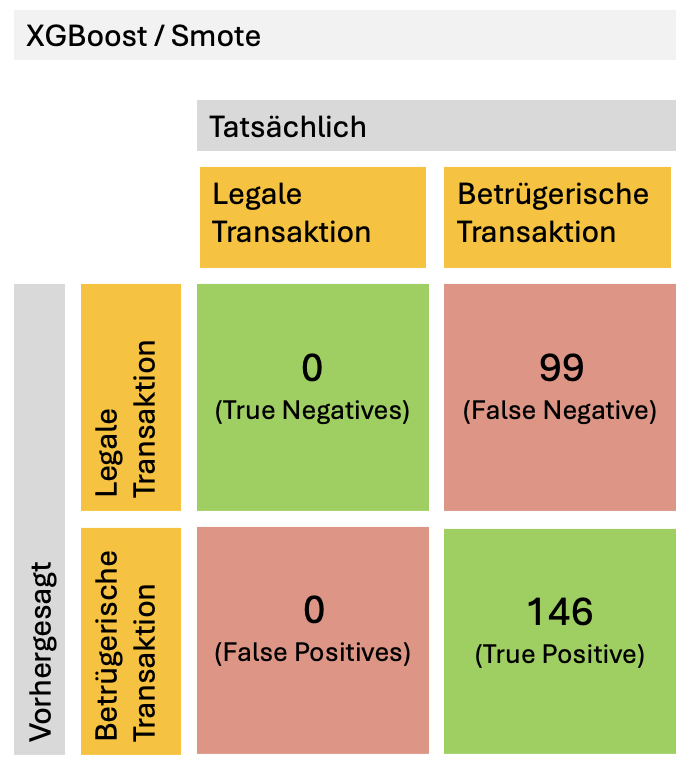
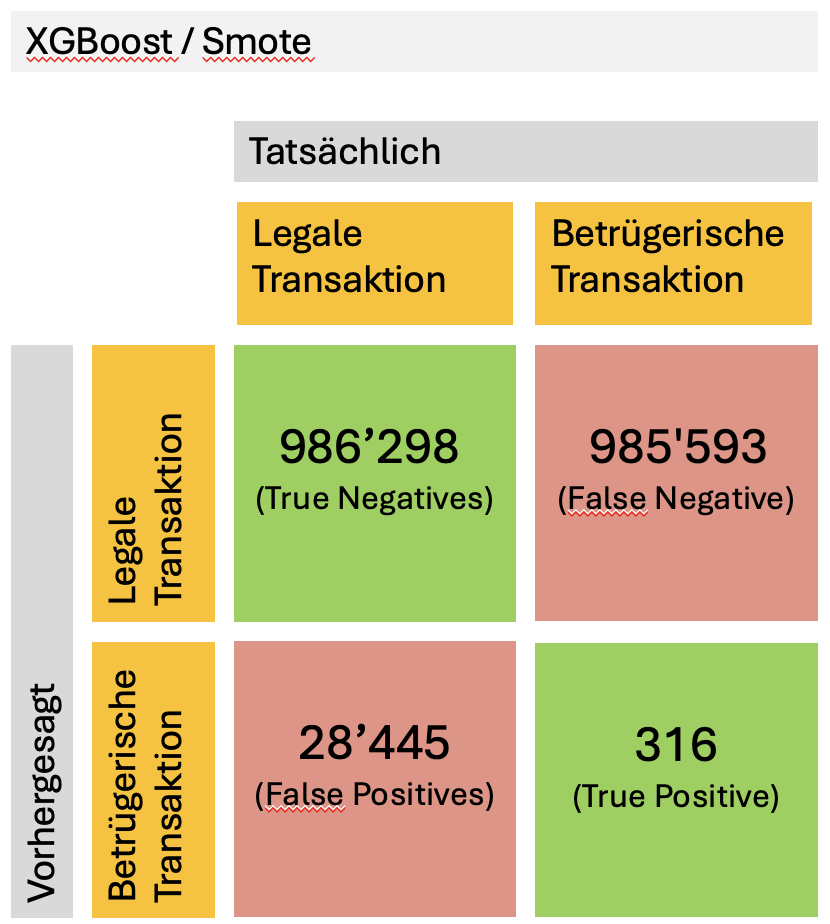
Add more content

diff --git a/index.md b/index.md
@@ -356,7 +356,7 @@ Im Post-Processing durchlaufen diese Merkmale weitere Schichten, um spezifische 
 
 <img src="assets/resultate_alle.png" alt="gnn" class="resultate_alle" class="hover-zoom" style="float: left; margin-right: 20px; width: 200px;">
 
-Die Grafik fasst die Ergebnisse der besten Modelle übersichtlich zusammen. Alle Modelle, außer den GNN-Modellen, wurden sowohl mit unbalancierten als auch mit balancierten Daten trainiert. Das GNN-Modell schnitt am besten ab und erreichte einen F1-Score von 0,60. Bemerkenswert ist, dass das nicht graphbasierte Modell XGBoost, trainiert mit nach der SMOTE-Methode gesampelten Daten, mit einem F1-Score von 0,56 fast gleichauf lag. Die Ergebnisse sind solide, lassen aber viel Spielraum für Verbesserungen. Unsere Arbeit bietet einen ersten Einstieg in dieses Thema. Die Umsetzung bleibt ausbaufähig; konkrete Verbesserungsvorschläge finden sich im Kapitel „Outlook“.
+Die Grafik fasst die Ergebnisse der besten Modelle übersichtlich zusammen. Alle Modelle, außer den GNN-Modellen, werden sowohl mit unbalancierten als auch mit balancierten Daten trainiert. Das GNN-Modell schneidet am besten ab und erreicht einen F1-Score von 0.60 HIER FEHLT TEXT. Bemerkenswert ist, dass das nicht graphbasierte Modell XGBoost, trainiert mit nach der SMOTE-Methode gesampelten Daten, mit einem F1-Score von 0.56 fast gleichauf liegt. Die Ergebnisse sind solide, lassen aber viel Spielraum für Verbesserungen. Unsere Arbeit bietet einen ersten Einstieg in dieses Thema. Die Umsetzung bleibt ausbaufähig; konkrete Verbesserungsvorschläge finden sich im Kapitel „Outlook“.
 
 
 
@@ -368,8 +368,7 @@ Die nicht-grafischen Modelle erreichen F1-Scores bis zu 0.56. Besonders XGBoost 
 
 <img src="assets/cf_ngb.png" alt="cf_ngb" class="hover-zoom" style="display: block; margin: 10px auto; width: 300px;">
 
-Die Grafik zeigt die Confusion Matrix des besten Modells, XGBoost mit SMOTE. Durch das Sampling entstanden zahlreiche zusätzliche betrügerische Transaktionen. Das Modell erkennt rund 28 Tausend legale Transaktionen als betrügerisch und 
-HIER FEHLT TEXT 
+Die Grafik präsentiert die Confusion Matrix des besten Modells, XGBoost mit SMOTE. Durch das Sampling entstanden viele zusätzliche betrügerische Transaktionen. Das Modell stuft etwa 28'455 legale Transaktionen fälschlicherweise als betrügerisch ein, während es 985'593 betrügerische Transaktionen übersieht und als legal einordnet.
 
 
 ## Graph-basierte Modelle
@@ -379,7 +378,7 @@ HIER FEHLT TEXT
 <img src="assets/resultate_GFP.png" alt="resultate_GFP" class="hover-zoom" style="float: left; margin-right: 20px; width: 150px;">
 
 > Die Modelle mit den GFP Features ohne Sampling konnten noch nicht trainiert werden. Dies wird bis am 17.01. nachgeholt.
-Die Modelle mit GFP-Features lieferten nicht die erhofften besseren Ergebnisse. Nur die XGBoost-Modelle durchbrachen mit den Sampling-Methoden Oversampling und SMOTE die 0,50-Marke. Ein F1-Score von 0,51 bleibt jedoch unbefriedigend. Wir haben zwei Thesen: - Erstens könnten Fehler im Code zur Generierung der GFP-Features vorliegen, besonders bei der Datensortierung. GFP erfordert zwingend eine zeitliche Sortierung der Daten. Dies sollte dringend überprüft werden. 
+Die Modelle mit GFP-Features lieferten nicht die erhofften besseren Ergebnisse. Nur die XGBoost-Modelle durchbrachen mit den Sampling-Methoden Oversampling und SMOTE die 0.50-Marke. Ein F1-Score von 0.51 bleibt jedoch unbefriedigend. Wir haben zwei Thesen: - Erstens könnten Fehler im Code zur Generierung der GFP-Features vorliegen, besonders bei der Datensortierung. GFP erfordert zwingend eine zeitliche Sortierung der Daten. Dies sollte dringend überprüft werden. 
 - Zweitens könnten die Sampling-Methoden die Mustererkennung beeinträchtigen. Die Features basieren auf der Graph-Struktur. Möglicherweise gelingt es den Sampling-Methoden nicht, diese erfolgreich nachzubilden. Diese These betrifft jedoch nur SMOTE und Adasyn, da Undersampling die Daten nicht verändert und Oversampling sie lediglich dupliziert.
 
 <img src="assets/cf_lightgbm_sampling.png" alt="cf_lightgbm_sampling" class="hover-zoom" style="display: block; margin: 10px auto; width: 300px;">
@@ -396,19 +395,7 @@ Die Confusion-Matrizen des Modells XGBoost weichen stark von denen von LightGBM 
 
 <img src="assets/resultate_GNN.png" alt="resultate_GNN" class="resultate_GNN" style="float: right; margin-left: 20px; width: 150px;">
 
-Lorem ipsum dolor sit amet, consetetur sadipscing elitr, sed diam nonumy eirmod tempor invidunt ut labore et dolore magna aliquyam erat, sed diam voluptua. At vero eos et accusam et justo duo dolores et ea rebum. Stet clita kasd gubergren, no sea takimata sanctus est Lorem ipsum dolor sit amet. 
-
-<img src="assets/cf_gnn.png" alt="cf_gnn" class="hover-zoom" style="display: block; margin: 10px auto; width: 300px;">
-
-Lorem ipsum dolor sit amet, consetetur sadipscing elitr, sed diam nonumy eirmod tempor invidunt ut labore et dolore magna aliquyam erat, sed diam voluptua. At vero eos et accusam et justo duo dolores et ea rebum. Stet clita kasd gubergren, no sea takimata sanctus est Lorem ipsum dolor sit amet.
-
-
-
-
-
-
-
-
+Die GNN Modelle steigern sich mit zunehmender Modell-Komplexität. Alle Modelle werden auf den unbalancierten Daten trainiert. Das Baseline-Modell erzielt dabei einen F1-Score von 0.58 und das beste Modell von HIER FEHLT TEXT.
 
 
 
@@ -448,6 +435,10 @@ Egressy, B., von Niederhäusern, L., Blanuša, J., Altman, E., Wattenhofer, R., 
 
 Liu, Z., Dou, Y., Yu, P. S., Deng, Y., & Peng, H. (2020). *Alleviating the Inconsistency Problem of Applying Graph Neural Network to Fraud Detection.* Proceedings of the 43rd International ACM SIGIR Conference on Research and Development in Information Retrieval. [https://doi.org/10.1145/3397271.3401253](https://doi.org/10.1145/3397271.3401253)
 
+PyTorch Geometric. (n.d.). torch_geometric.nn.conv.GINEConv. PyTorch Geometric Documentation. [https://pytorch-geometric.readthedocs.io/en/2.5.1/generated/torch_geometric.nn.conv.GINEConv.html](https://pytorch-geometric.readthedocs.io/en/2.5.1/generated/torch_geometric.nn.conv.GINEConv.html)
+
 Sinayobye, J. O., Kiwanuka, F., & Kaawaase Kyanda, S. (2018). *A State-of-the-Art Review of Machine Learning Techniques for Fraud Detection Research.* SEIA 2018. [https://doi.org/10.1145/3195528.3195534](https://doi.org/10.1145/3195528.3195534) 
+
+Stanford University. (n.d.). CS229: Machine Learning (Autumn 2018) [Playlist]. YouTube. [https://www.youtube.com/playlist?list=PLoROMvodv4rPLKxIpqhjhPgdQy7imNkDn](https://www.youtube.com/playlist?list=PLoROMvodv4rPLKxIpqhjhPgdQy7imNkDn)
 
 Vashistha, A., & Tiwari, A. K. (2024). *Building Resilience in Banking Against Fraud with Hyper Ensemble Machine Learning and Anomaly Detection Strategies.* SN Computer Science, 5(556). [https://doi.org/10.1007/s42979-024-02854-w](https://doi.org/10.1007/s42979-024-02854-w)
